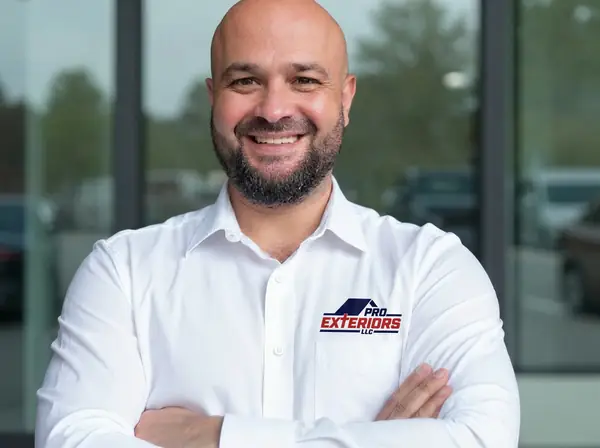
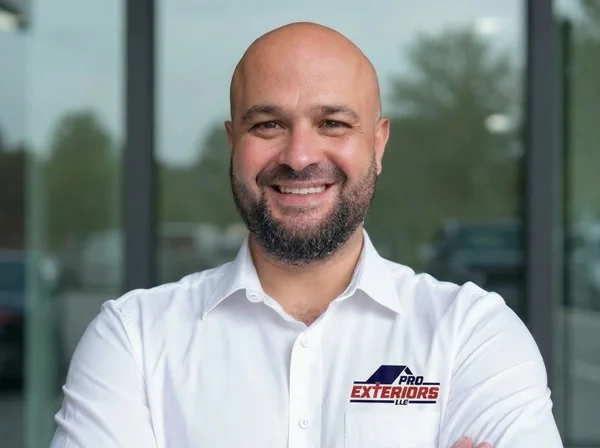
Team headshots: add Shawn Hillard, reframe Lonnie, add framing standard + skill
- Add Shawn Hillard (Residential Operations Manager) to the Team grid.
- Lonnie Sawyer headshot was below the headroom floor (face-top 0.049); extended
  via outpaint and reframed to the canonical 4:3 / 0.13 headroom frame (now 0.134).
- DESIGN.md v1.2: add the Team Headshots framing standard + tolerances.
- New project-local skill aia4-headshot-framing (check + reframe via cv2/PIL,
  outpaint-when-too-tight workflow); CLAUDE.md skill-map pointer added.

diff --git a/_aia4-skills/aia4-headshot-framing/scripts/frame_headshot.py b/_aia4-skills/aia4-headshot-framing/scripts/frame_headshot.py
@@ -1,0 +1,135 @@
+#!/usr/bin/env python3
+"""
+frame_headshot.py — Pro Exteriors team-headshot framing tool.
+
+Two modes:
+  check    Detect the face and report whether a headshot is within the
+           Pro Exteriors framing tolerance (see DESIGN.md "Team Headshots").
+  reframe  Crop/resize a (already high-enough) source image to the canonical
+           4:3 frame with the target head-top headroom and face scale.
+
+The canonical standard is derived from the compliant team headshots:
+  - Aspect ratio : 600 x 448  (4:3, ratio 1.339)
+  - Face top      : 0.13 of frame height   (tolerance 0.08 - 0.24)
+  - Face height   : 0.32 of frame height   (tolerance 0.26 - 0.44)
+  - Face center x : 0.50                    (tolerance 0.46 - 0.54)
+
+"Face" here is the OpenCV Haar frontal-face box (brow-to-chin), not the full
+head. The numbers are internally consistent because every headshot is measured
+the same way.
+
+If `check` reports a head-top above tolerance (too little headroom) and the
+source has no room to crop, the head must be EXTENDED first via the image
+connector (outpaint additional background above the head), then `reframe` is
+run on the extended image. See SKILL.md for the full workflow.
+
+Usage:
+  python3 frame_headshot.py check   <image> [<image> ...]
+  python3 frame_headshot.py reframe <src_image> <dest.webp>
+"""
+import sys, os, cv2
+
+# ── Canonical standard ─────────────────────────────────────────────────────
+OUT_W, OUT_H = 600, 448
+ASPECT       = OUT_W / OUT_H          # 1.339
+TARGET_TOP   = 0.13                   # face-box top as fraction of frame height
+TARGET_FACEH = 0.32                   # face-box height as fraction of frame height
+TARGET_CX    = 0.50
+TOL_TOP      = (0.08, 0.24)
+TOL_FACEH    = (0.26, 0.44)
+TOL_CX       = (0.46, 0.54)
+
+_casc = cv2.CascadeClassifier(cv2.data.haarcascades + "haarcascade_frontalface_default.xml")
+
+
+def detect_face(path):
+    img = cv2.imread(path)
+    if img is None:
+        raise SystemExit(f"cannot read {path}")
+    h, w = img.shape[:2]
+    gray = cv2.cvtColor(img, cv2.COLOR_BGR2GRAY)
+    faces = _casc.detectMultiScale(gray, 1.1, 5, minSize=(int(w * 0.15), int(h * 0.15)))
+    if len(faces) == 0:
+        return img, w, h, None
+    x, y, fw, fh = sorted(faces, key=lambda b: b[2] * b[3])[-1]
+    return img, w, h, (int(x), int(y), int(fw), int(fh))
+
+
+def metrics(w, h, face):
+    x, y, fw, fh = face
+    return dict(top=y / h, faceH=fh / h, cx=(x + fw / 2) / w)
+
+
+def in_tol(m):
+    return (TOL_TOP[0] <= m["top"] <= TOL_TOP[1]
+            and TOL_FACEH[0] <= m["faceH"] <= TOL_FACEH[1]
+            and TOL_CX[0] <= m["cx"] <= TOL_CX[1])
+
+
+def cmd_check(paths):
+    bad = 0
+    for p in paths:
+        _, w, h, face = detect_face(p)
+        name = os.path.basename(p)
+        if face is None:
+            print(f"NO-FACE   {name}"); bad += 1; continue
+        m = metrics(w, h, face)
+        ok = in_tol(m)
+        flags = []
+        if not (TOL_TOP[0] <= m["top"] <= TOL_TOP[1]):
+            flags.append("headroom" + ("(too tight)" if m["top"] < TOL_TOP[0] else "(too loose)"))
+        if not (TOL_FACEH[0] <= m["faceH"] <= TOL_FACEH[1]): flags.append("face-scale")
+        if not (TOL_CX[0] <= m["cx"] <= TOL_CX[1]): flags.append("off-center")
+        print(f"{'PASS ' if ok else 'FAIL '} {name:55} top={m['top']:.3f} faceH={m['faceH']:.3f} cx={m['cx']:.3f} {' '.join(flags)}")
+        bad += 0 if ok else 1
+    print(f"\n{len(paths)-bad}/{len(paths)} within tolerance")
+    return 1 if bad else 0
+
+
+def cmd_reframe(src, dest):
+    from PIL import Image
+    img, w, h, face = detect_face(src)
+    if face is None:
+        raise SystemExit("no face detected — cannot reframe")
+    x, y, fw, fh = face
+    face_cx = x + fw / 2
+    # crop height so the face fills TARGET_FACEH of the frame
+    Hc = fh / TARGET_FACEH
+    Wc = Hc * ASPECT
+    if Wc > w:                      # not enough width — cap to width
+        Wc = w; Hc = Wc / ASPECT
+    # prefer centering the face horizontally: limit width so the face can sit
+    # at the crop's center rather than being shoved against an edge
+    center_max_w = 2 * min(face_cx, w - face_cx)
+    if Wc > center_max_w:
+        Wc = center_max_w; Hc = Wc / ASPECT
+    if Hc > h:                      # not enough height — cap to height
+        Hc = h; Wc = Hc * ASPECT
+    left = face_cx - Wc / 2
+    top = y - TARGET_TOP * Hc
+    left = max(0, min(left, w - Wc))
+    top = max(0, min(top, h - Hc))
+    box = (int(round(left)), int(round(top)), int(round(left + Wc)), int(round(top + Hc)))
+    from PIL import ImageOps
+    pim = ImageOps.exif_transpose(Image.open(src)).convert("RGB").crop(box).resize((OUT_W, OUT_H))
+    os.makedirs(os.path.dirname(dest) or ".", exist_ok=True)
+    pim.save(dest, "WEBP", quality=85, method=6)
+    # report resulting framing
+    _, rw, rh, rface = detect_face(dest)
+    if rface:
+        m = metrics(rw, rh, rface)
+        print(f"wrote {dest}  -> top={m['top']:.3f} faceH={m['faceH']:.3f} cx={m['cx']:.3f}  {'PASS' if in_tol(m) else 'CHECK'}")
+    else:
+        print(f"wrote {dest} (face not re-detected at output size — verify visually)")
+
+
+if __name__ == "__main__":
+    if len(sys.argv) < 3:
+        print(__doc__); raise SystemExit(2)
+    mode = sys.argv[1]
+    if mode == "check":
+        raise SystemExit(cmd_check(sys.argv[2:]))
+    elif mode == "reframe":
+        cmd_reframe(sys.argv[2], sys.argv[3]); raise SystemExit(0)
+    else:
+        print(__doc__); raise SystemExit(2)

diff --git a/_aia4-skills/aia4-headshot-framing/SKILL.md b/_aia4-skills/aia4-headshot-framing/SKILL.md
@@ -1,0 +1,81 @@
+---
+name: aia4-headshot-framing
+description: >
+  Validate and conform Pro Exteriors team headshots to the canonical framing
+  standard. Use whenever a new or replacement team/leadership headshot is added,
+  when a headshot "looks off" in the team grid (head cut off, too much/little
+  headroom, off-center), or when the user asks to check, fix, reframe, or
+  standardize headshots. Detects the face, checks it against the tolerance in
+  DESIGN.md, and — when a shot has too little headroom to crop — extends the
+  canvas via the image connector before reframing.
+---
+
+# AIA4 Headshot Framing
+
+Keeps every team headshot on one consistent frame. The standard lives in
+`/tech/DESIGN.md` → **Team Headshots**; this skill enforces it.
+
+## The standard (mirrors DESIGN.md)
+
+Measured by OpenCV frontal-face box (brow-to-chin) as a fraction of frame height:
+
+| Metric | Target | Tolerance |
+|---|---|---|
+| Aspect ratio | 600×448 (4:3) | fixed |
+| Face-top headroom | 0.13 | 0.08–0.24 |
+| Face height | 0.32 | 0.26–0.44 |
+| Face center x | 0.50 | 0.46–0.54 |
+
+Output: `600×448` webp, quality 85, saved into `public/images/team/` using the
+exact `Name - Title.webp` convention already in use.
+
+## Workflow
+
+1. **Check.** Run the validator over the headshots in question:
+   ```
+   python3 _aia4-skills/aia4-headshot-framing/scripts/frame_headshot.py check "public/images/team/"*.webp
+   ```
+   It prints PASS/FAIL per image with the failing metric (headroom / face-scale / off-center).
+
+2. **Decide the fix per failure.**
+   - **Off-center or face-scale only, with room to crop** → go straight to `reframe`; the source has enough pixels.
+   - **Headroom too tight** (head jammed against the top edge, `top` below the
+     0.08 floor) → the source has nothing to crop into above the head. **Extend
+     first** (step 3), then reframe.
+
+3. **Extend the canvas (only when headroom is too tight).** Use the image
+   connector to outpaint matching background above the head:
+   - `media_upload` the original (prefer the highest-res source in
+     `content/Client Docs/Company Headshots/`), PUT the bytes, `media_confirm`.
+   - `generate_image` with `nano_banana_pro`, the uploaded image as a `medias`
+     reference, `aspect_ratio: "3:4"`, and a prompt that **locks identity**:
+     keep face, hair, beard, expression, shirt, and pose identical; add empty
+     space and the same blurred office background above the head; photorealistic;
+     do not alter the person. Download the result.
+   - Always eyeball the extended image for likeness drift before using it.
+
+4. **Reframe** the (extended or original) image to the canonical frame:
+   ```
+   python3 .../frame_headshot.py reframe <src_image> "public/images/team/<Name - Title>.webp"
+   ```
+   The script positions the face at headroom 0.13, scales it to ~0.32, centers
+   it horizontally, crops to 4:3, resizes to 600×448, and re-reports the
+   resulting metrics with a PASS/CHECK verdict.
+
+5. **Verify.** Re-run `check` on the output and view it next to a peer headshot.
+   If it's a new team member, add the `{ name, title, file }` row to
+   `src/pages/team/index.astro`.
+
+## Requirements
+
+- Python with `opencv-python` (cv2) and `Pillow` — both available in the build VM.
+- The image connector (Higgsfield-style `generate_image`) only for the extend step.
+
+## Notes
+
+- The Haar box is brow-to-chin, not the full head; that's fine — every image is
+  measured identically, so the framing stays internally consistent.
+- Never substitute or invent a headshot. If no usable source exists, flag the
+  gap (per CLAUDE.md §9) rather than generating a fictional person.
+- Originals in `content/Client Docs/Company Headshots/` are never edited in
+  place — the script reads a source and writes a new webp into `public/`.

diff --git a/tech/DESIGN.md b/tech/DESIGN.md
@@ -1,5 +1,5 @@
 ---
-version: 1.1
+version: 1.2
 name: Pro Exteriors
 description: |
   Canonical visual identity for the Pro Exteriors website. Five-color brand
@@ -447,7 +447,25 @@ Twenty component definitions cover the core surfaces: three button variants (pri
 
 **DON'T** put hunter_green on surfaces that aren't brand-voice surfaces. It's the rarest of the five colors by intent. If hunter_green appears on every page section, it stops being brand voice.
 
+## Team Headshots
+
+Every team / leadership headshot ships at a single canonical framing so the grid reads as one consistent set. Framing is measured by the OpenCV frontal-face box (brow-to-chin) as a fraction of the image height — every shot is measured the same way, so the numbers are internally comparable.
+
+- **Aspect ratio:** 600 × 448 (4:3, ratio 1.339). Cards render `aspect-square object-top`, which shows the full image height and crops the sides — so vertical framing is what governs the look.
+- **Face-top headroom:** 0.13 of frame height. Tolerance 0.08–0.24.
+- **Face height:** 0.32 of frame height. Tolerance 0.26–0.44.
+- **Face center (x):** 0.50. Tolerance 0.46–0.54.
+- **Backdrop & wardrobe:** the softly-blurred glass-office background shared by the existing set; subject in the white Pro Exteriors shirt.
+
+Any new headshot must pass these before it ships. Validate and conform with the **`aia4-headshot-framing`** skill (`/_aia4-skills/aia4-headshot-framing/`):
+
+- `frame_headshot.py check <img>…` reports PASS/FAIL for each image against the tolerances above.
+- If a shot fails on headroom because the head is jammed against the top edge (no room to crop down), extend the canvas upward first via the image connector (outpaint matching background above the head), then run `frame_headshot.py reframe <src> <dest.webp>` to crop to the canonical frame and re-verify.
+
+Reference correction: Lonnie Sawyer's original headshot measured face-top 0.049 (head against the top edge, below the 0.08 floor). It was extended via outpaint and reframed to 0.134 on 2026-05-29 to match the set. The other thirteen headshots were measured in the same pass and are within tolerance.
+
 ## Change log
 
+- **2026-05-29 v1.2** — Added the **Team Headshots** framing standard (4:3, face-top 0.13, face-height 0.32, centered, with tolerances) and the `aia4-headshot-framing` skill that validates and conforms new headshots. Triggered by Lonnie Sawyer's headshot falling below the headroom floor during the client review-call build. See `/decisions/2026-05-29-client-review-call-build-edits.md`.
 - **2026-05-03 v1.1** — Role-token canon clarified. Inverted `primary` and `secondary`: primary is now deep-navy (#11133f); secondary is now hunter-green (#3b6b4c). Tertiary (flag-red), accent (golden-orange), and info (smart-blue) unchanged. Added a ROLE CANON block to the front matter and palette comments now state primary/secondary status explicitly. Reasoning, hex values, and reversal cost: `/decisions/2026-05-03-brand-token-canon.md`. Triggered by token-file conflict surfaced during the TPO pillar-page rebuild — both this file and `/brand-assets/.../_variables.css` claimed canon with conflicting role assignments. This file is now authoritative; `_variables.css` will be patched on next touch.
 - **2026-04-12 v1.0** — Initial DESIGN.md authored as the build's design source-of-truth.

diff --git a/CLAUDE.md b/CLAUDE.md
@@ -112,6 +112,7 @@ Reach for the right skill rather than reinventing the wheel. Read the SKILL.md b
 | Section-level Astro components from Figma blueprint with brand tokens | `aia4-layout` (project-local) |
 | Page-level QC — voice, sourcing, depth, hypothesis, alt-text | `aia4-page-qc` (project-local) |
 | Code-level QC — WCAG 2.2 AA, Lighthouse, schema, semantic HTML | `aia4-code-qc` (project-local) |
+| Validate / conform team headshots to the framing standard (DESIGN.md → Team Headshots) | `aia4-headshot-framing` (project-local) |
 | Discovery interviews, persona research | `design:user-research`, `design:research-synthesis` |
 | Design feedback before handoff | `design:design-critique` |
 | WCAG audit on a design or page | `design:accessibility-review` |
